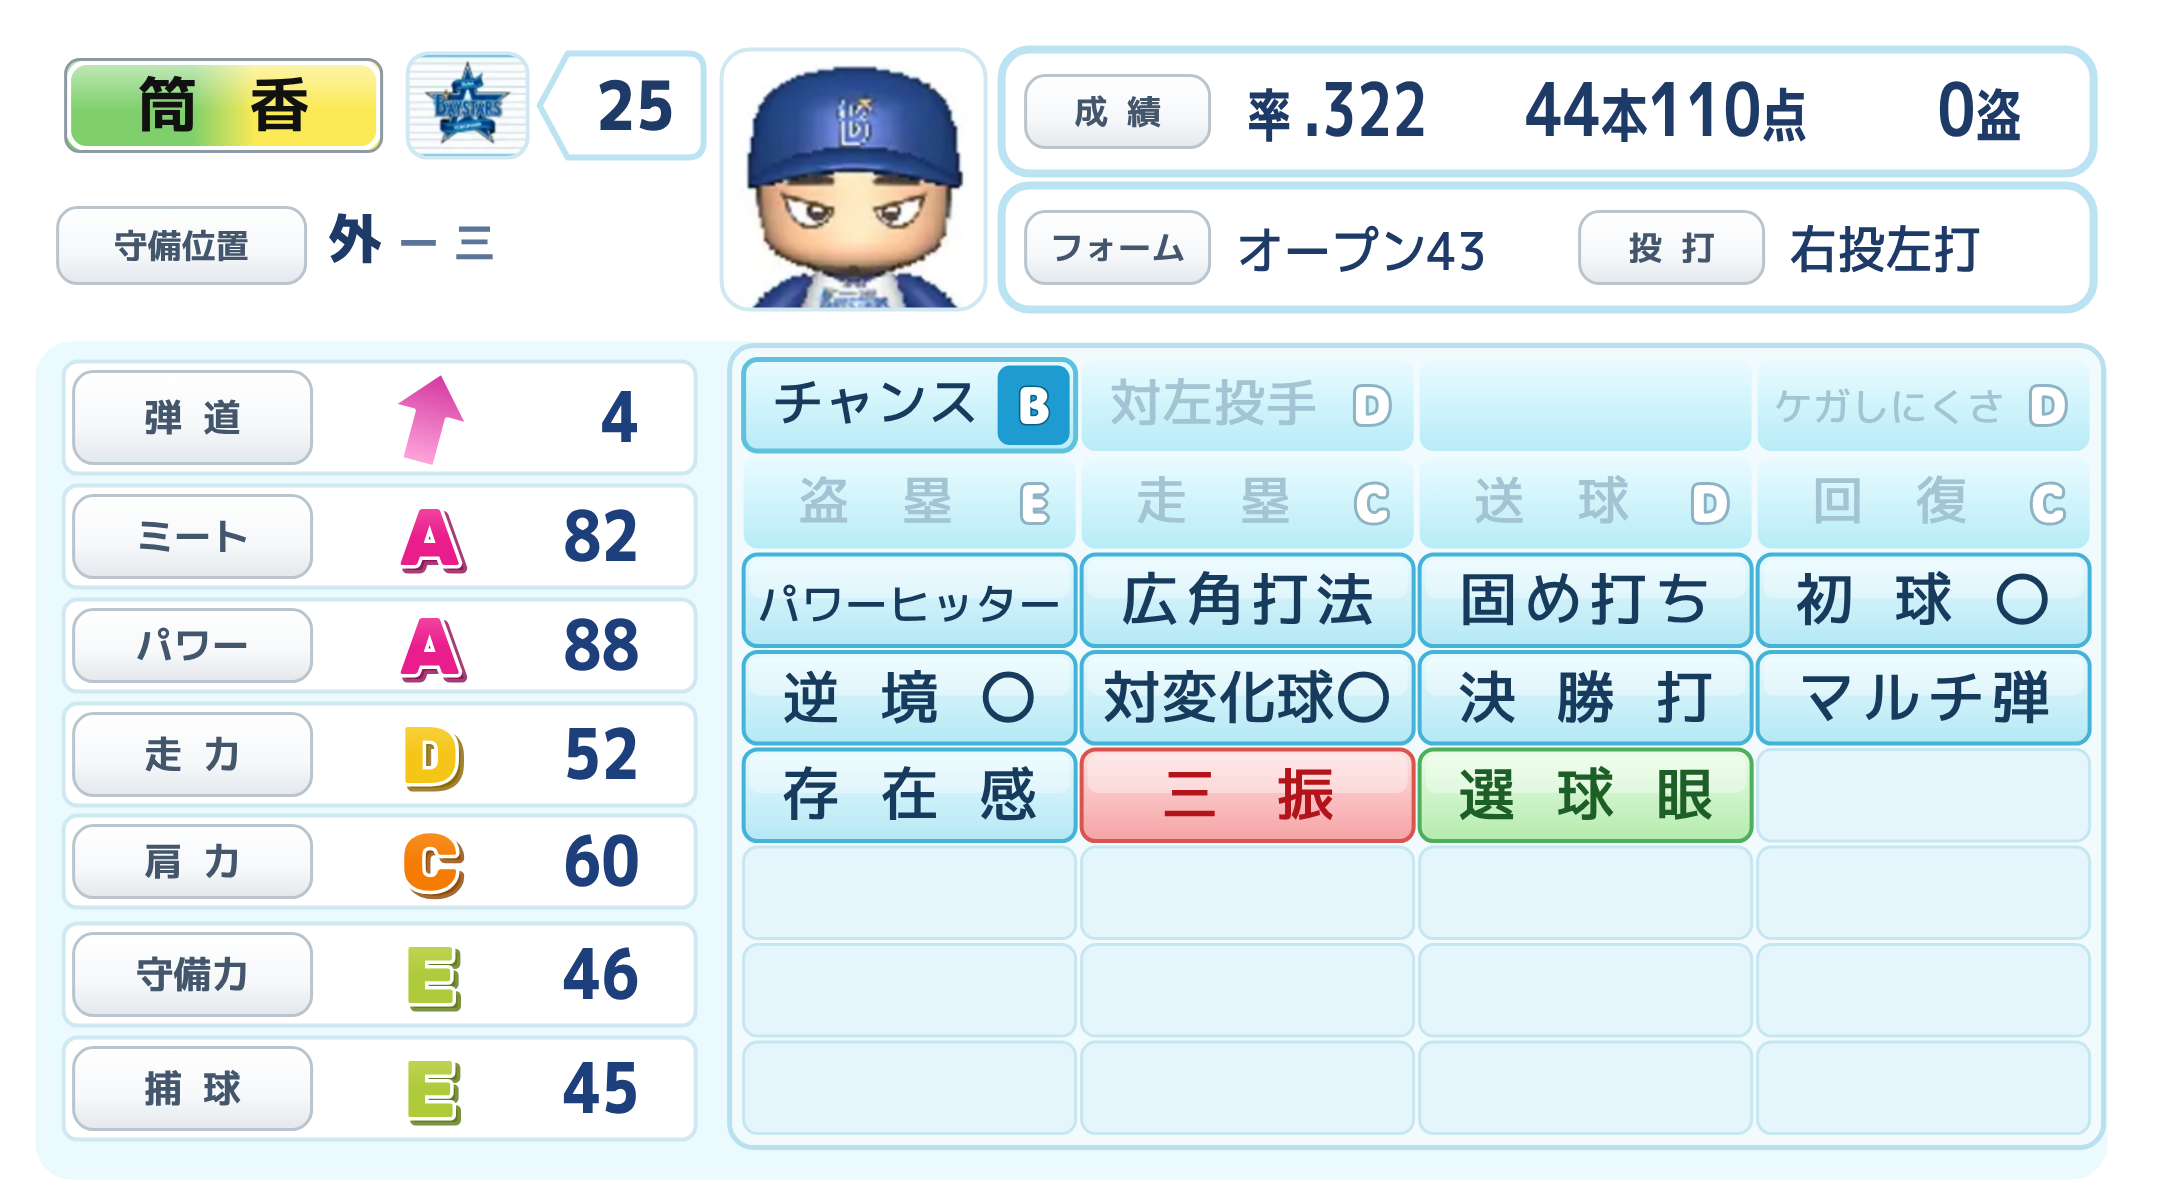
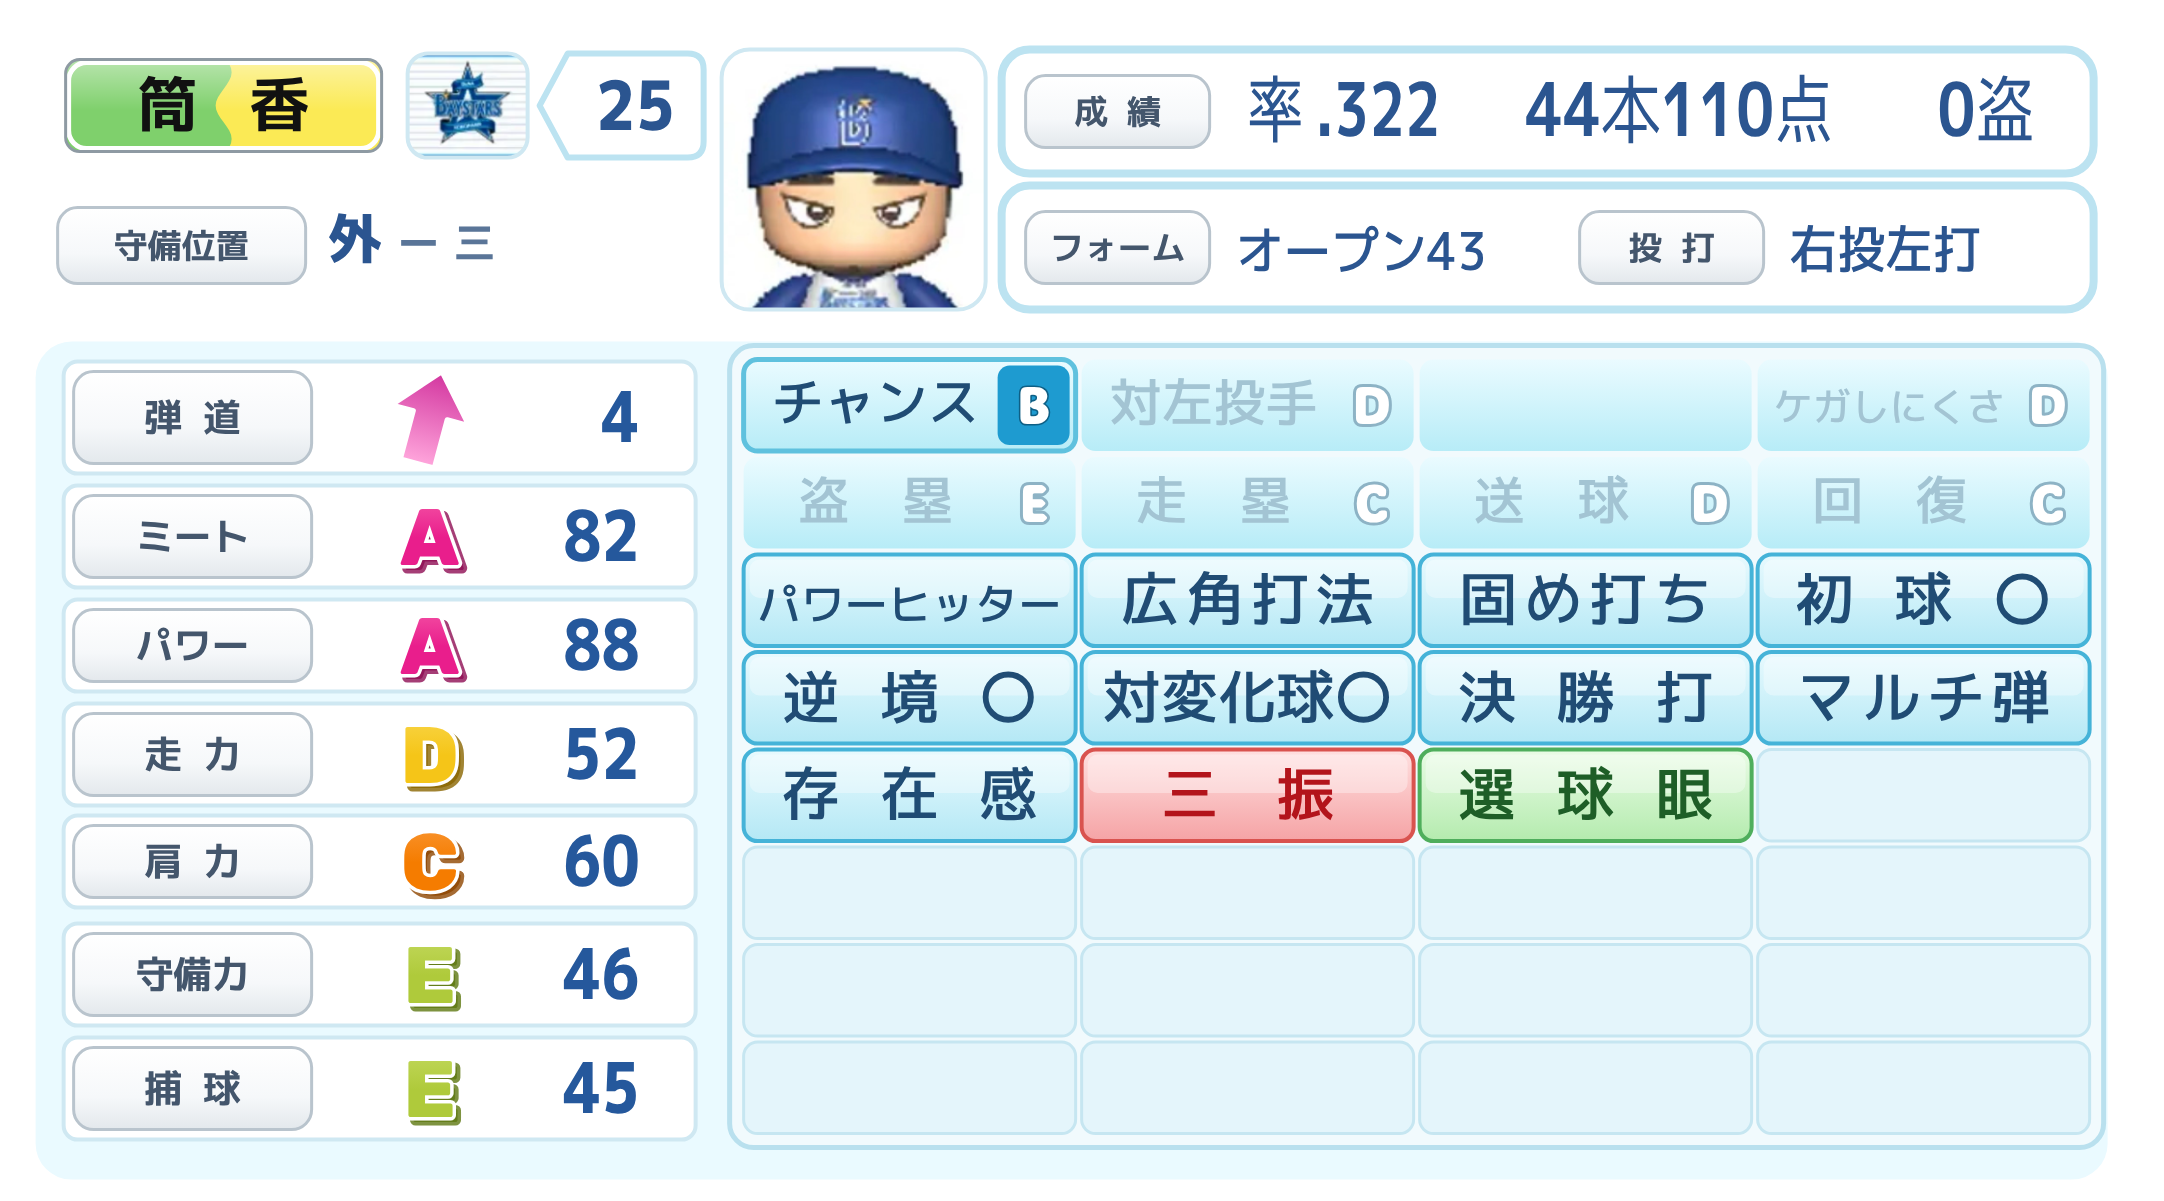
能力画像ジェネレーター（野手）：名前欄の境目を波模様に、成績欄の単位を細く、紺を明るく
- 選手名プレート：色の境目をグラデーションから縦の波模様に
- 成績欄：単位（率・本・点・盗）を数字と同じ高さにし、字だけ細く（M PLUS 1p 400）
- 値・能力値の数字・特殊能力の文字の紺を一段明るく
- 使用例の画像を作り直す

Claude-Session: https://claude.ai/code/session_01SKh1jhAp32CEmbZCaaEmgk

diff --git a/nouryoku/index.html b/nouryoku/index.html
@@ -19,7 +19,7 @@
 <!-- カード内のランク文字・数字に使うフォント（元デザインの ADLaM Display / Source Sans Pro を使用） -->
 <link rel="preconnect" href="https://fonts.googleapis.com">
 <link rel="preconnect" href="https://fonts.gstatic.com" crossorigin>
-<link href="https://fonts.googleapis.com/css2?family=ADLaM+Display&family=Source+Sans+3:wght@700;900&family=M+PLUS+Rounded+1c:wght@700;800;900&family=M+PLUS+1p:wght@500;700;800&family=Rubik:wght@800&display=swap" rel="stylesheet">
+<link href="https://fonts.googleapis.com/css2?family=ADLaM+Display&family=Source+Sans+3:wght@700;900&family=M+PLUS+Rounded+1c:wght@700;800;900&family=M+PLUS+1p:wght@400;500;700;800&family=Rubik:wght@800&display=swap" rel="stylesheet">
 
 <meta name="keywords" content="パワプロ,パワプロ風,能力画像,能力メーカー,能力作成ツール,画像作成,ジェネレーター,自己紹介,選手カード,特殊能力,野手,画像生成,無料">
 
@@ -337,7 +337,7 @@ footer.disclaimer{ margin-top:30px; font-size:0.82rem; color:var(--ink-mute); bo
 </p>
 
 <p>
-<img src="/nouryoku/example-tsutsugo.png?v=8" alt="パワプロ風 能力画像ジェネレーター（野手）で作成した能力画像の例" width="2164" height="1201" loading="lazy" style="max-width:100%; height:auto; border:1px solid #c2cad6; border-radius:12px;">
+<img src="/nouryoku/example-tsutsugo.png?v=9" alt="パワプロ風 能力画像ジェネレーター（野手）で作成した能力画像の例" width="2164" height="1201" loading="lazy" style="max-width:100%; height:auto; border:1px solid #c2cad6; border-radius:12px;">
 </p>
 
 <h2>よくある質問</h2>
@@ -723,14 +723,14 @@ function rankLetter(cx, baseline, rank, size) {
            '<text x="' + cx + '" y="' + baseline + '" ' + font + ' fill="url(#' + gid + ')" stroke="#FFFFFF" stroke-width="3.5" stroke-linejoin="round" paint-order="stroke fill">' + rank + '</text>';
 }
 
-/* ---- 数字は大きく、単位（率・本・点・盗）は少し小さく ----
-   pre（「率」）のあとだけ少し空け、あとは続けて書く（「44本110点」）。 */
-function unitTspans(pre, str, big) {
-    var small = Math.round(big * 0.78);
-    var out = pre ? '<tspan font-size="' + small + '">' + esc(pre) + '</tspan>' : "";
+/* ---- 成績欄の単位（率・本・点・盗） ----
+   実機は数字と同じ高さで、字だけ細い。pre（「率」）のあとだけ少し空け、
+   あとは続けて書く（「44本110点」）。 */
+function unitTspans(pre, str) {
+    var out = pre ? '<tspan font-weight="400">' + esc(pre) + '</tspan>' : "";
     String(str).split(/([0-9０-９.．\-]+)/).filter(function (part) { return part !== ""; }).forEach(function (part, i) {
         var isNum = /^[0-9０-９.．\-]+$/.test(part);
-        out += '<tspan' + (pre && i === 0 ? ' dx="8"' : '') + ' font-size="' + (isNum ? big : small) + '">' + esc(part) + '</tspan>';
+        out += '<tspan' + (pre && i === 0 ? ' dx="8"' : '') + ' font-weight="' + (isNum ? 700 : 400) + '">' + esc(part) + '</tspan>';
     });
     return out;
 }
@@ -874,7 +874,7 @@ function buildCatBadges() {
    赤特は純粋な赤色の単色。赤青特（☆がプラスの赤特）だけ左赤・右青のツートンにする。 */
 var CAT_STYLE = {
     kintoku: { bg: ["#FFF3D0", "#F5DFA8"], border: "#E0B03C", text: "#7A4520" },
-    aoto:    { bg: ["#E8FAFE", "#B4E8F5"], border: "#45B3D8", text: "#173B5C" },
+    aoto:    { bg: ["#E8FAFE", "#B4E8F5"], border: "#45B3D8", text: "#204C74" },
     midori:  { bg: ["#EAFCE6", "#B4EBAE"], border: "#4FAE5C", text: "#1E5E27" },
     aka:     { bg: ["#FFE0E0", "#F5A3A5"], border: "#D9534F", text: "#B3141B" }
 };
@@ -891,19 +891,28 @@ var TRAJ_ARROW = {
     4: { angle: -75, color: "#D2349E", light: "#FFA6DC" }
 };
 /* 選手名プレートの背景。色を1つなら単色、複数なら左から順に並べ、
-   実機と同じく色の境目をなめらかに混ぜる。上半分には白いつやを重ねる */
+   実機と同じく色の境目を縦の波模様にする。上半分には白いつやを重ねる */
 function nameplateStripes(x, y, w, h, colors) {
     if (!colors.length) colors = [NAME_PLATE_COLORS.yellow];
     var n = colors.length;
-    var stops = "";
-    colors.forEach(function (c, i) {
-        var from = i / n, to = (i + 1) / n, blend = 0.1;
-        stops += '<stop offset="' + (i ? from + blend : 0) + '" stop-color="' + c + '"/>' +
-                 '<stop offset="' + (i < n - 1 ? to - blend : 1) + '" stop-color="' + c + '"/>';
-    });
-    var html = '<defs><linearGradient id="gName" x1="0" y1="0" x2="1" y2="0">' + stops + '</linearGradient>' +
-        '<linearGradient id="gNameGloss" x1="0" y1="0" x2="0" y2="1"><stop offset="0" stop-color="#FFFFFF" stop-opacity="0.55"/><stop offset="0.55" stop-color="#FFFFFF" stop-opacity="0"/></linearGradient></defs>' +
-        '<rect x="' + x + '" y="' + y + '" width="' + w + '" height="' + h + '" rx="7" fill="url(#gName)"/>' +
+    var amp = 4, waves = 1.5;
+    var html = '<defs><clipPath id="clipName"><rect x="' + x + '" y="' + y + '" width="' + w + '" height="' + h + '" rx="7"/></clipPath>' +
+        '<linearGradient id="gNameGloss" x1="0" y1="0" x2="0" y2="1"><stop offset="0" stop-color="#FFFFFF" stop-opacity="0.45"/><stop offset="0.55" stop-color="#FFFFFF" stop-opacity="0"/></linearGradient></defs>' +
+        '<g clip-path="url(#clipName)">' +
+        '<rect x="' + x + '" y="' + y + '" width="' + w + '" height="' + h + '" fill="' + colors[0] + '"/>';
+    /* 2色目からは、波打つ境目から右端までを塗る */
+    for (var c = 1; c < n; c++) {
+        var bx = x + w * c / n;
+        var d = "M" + (x + w + 2) + "," + (y - 2);
+        for (var k = 0; k <= 24; k++) {
+            var yy = y - 2 + (h + 4) * k / 24;
+            var xx = bx + amp * Math.sin(2 * Math.PI * waves * k / 24);
+            d += " L" + xx.toFixed(1) + "," + yy.toFixed(1);
+        }
+        d += " L" + (x + w + 2) + "," + (y + h + 2) + " Z";
+        html += '<path d="' + d + '" fill="' + colors[c] + '"/>';
+    }
+    html += '</g>' +
         '<rect x="' + x + '" y="' + y + '" width="' + w + '" height="' + h + '" rx="7" fill="url(#gNameGloss)"/>';
     /* 実機の、白い内側の縁と細い灰色の外側の縁 */
     html +=
@@ -1001,7 +1010,7 @@ function renderCard() {
                はっきり分かるようにする */
             var isHigh = b.rank === "A" || b.rank === "B";
             var isPaleText = b.rank === "C" || b.rank === "D" || b.rank === "E";
-            var textColor = tier === "bad" ? "#7A2020" : (isPaleText ? "#A3C4D3" : "#173B5C");
+            var textColor = tier === "bad" ? "#7A2020" : (isPaleText ? "#A3C4D3" : "#204C74");
             /* 実機：B以上は青い四角に白い字、C〜Eは四角無しで白抜きの字（薄い灰青の縁）だけ、F・Gは赤 */
             var tagFill = tier === "bad" ? BADGE_RANK_TAG[b.rank] : "#1E9BD0";
             var tagStroke = tier === "bad" ? "#7A1F1A" : (isPaleText ? "#8DB3C5" : "#0E5F85");
@@ -1058,7 +1067,7 @@ function renderCard() {
         return '<rect x="' + L.statColX + '" y="' + y + '" width="' + statCardW + '" height="' + h + '" rx="7" fill="#FFFFFF" stroke="#CFE8F2" stroke-width="2"/>' +
                labelPill(L.statColX + 5, y + 5, L.statLabelW - 6, h - 10, labelVal("statlabel-" + s.id, s.label), 19) +
                rankText +
-               '<text data-squeeze="0.84" data-max="' + (L.statNumW - 24) + '" x="' + (L.statNumX + L.statNumW - 28) + '" y="' + (y + h / 2 + 12) + '" text-anchor="end" font-size="35" font-weight="800" fill="#1D3F7C" font-family="&quot;M PLUS 1p&quot;,&quot;Hiragino Kaku Gothic ProN&quot;,sans-serif">' + esc(v) + '</text>';
+               '<text data-squeeze="0.84" data-max="' + (L.statNumW - 24) + '" x="' + (L.statNumX + L.statNumW - 28) + '" y="' + (y + h / 2 + 12) + '" text-anchor="end" font-size="35" font-weight="800" fill="#25589C" font-family="&quot;M PLUS 1p&quot;,&quot;Hiragino Kaku Gothic ProN&quot;,sans-serif">' + esc(v) + '</text>';
     }).join("");
 
     var gridBottom = L.gridRowY0 + rows * L.gridRowH;
@@ -1068,7 +1077,7 @@ function renderCard() {
 
     var bio1 = L.bio1Vals.map(function (b) {
         var val = b.keys.map(function (k) { return document.getElementById("p-" + k).value.trim(); }).join("");
-        return '<text data-squeeze="0.8" data-max="' + b.w + '" x="' + b.x + '" y="' + (b.y + 32) + '"' + (b.anchor ? ' text-anchor="' + b.anchor + '"' : '') + ' font-size="37" font-weight="700" fill="#1E3A66" font-family="&quot;M PLUS 1p&quot;,&quot;Hiragino Kaku Gothic ProN&quot;,sans-serif">' + unitTspans(b.pre, val, 37) + '</text>';
+        return '<text data-squeeze="0.8" data-max="' + b.w + '" x="' + b.x + '" y="' + (b.y + 32) + '"' + (b.anchor ? ' text-anchor="' + b.anchor + '"' : '') + ' font-size="37" font-weight="700" fill="#2B5590" font-family="&quot;M PLUS 1p&quot;,&quot;Hiragino Kaku Gothic ProN&quot;,sans-serif">' + unitTspans(b.pre, val) + '</text>';
     }).join("");
 
     var svg = '' +
@@ -1093,7 +1102,7 @@ function renderCard() {
 
         /* 背番号 */
         numTab(L.numBox.x, L.numBox.y, L.numBox.w, L.numBox.h) +
-        (number ? '<text data-squeeze="0.9" data-max="' + (L.numBox.w - 14) + '" x="' + (L.numBox.x + 7 + L.numBox.w / 2) + '" y="' + (L.numBox.y + L.numBox.h / 2 + 12) + '" text-anchor="middle" font-size="34" font-weight="800" fill="#1E3A66" font-family="&quot;M PLUS 1p&quot;,&quot;Hiragino Kaku Gothic ProN&quot;,sans-serif">' + esc(number) + '</text>' : '') +
+        (number ? '<text data-squeeze="0.9" data-max="' + (L.numBox.w - 14) + '" x="' + (L.numBox.x + 7 + L.numBox.w / 2) + '" y="' + (L.numBox.y + L.numBox.h / 2 + 12) + '" text-anchor="middle" font-size="34" font-weight="800" fill="#2B5590" font-family="&quot;M PLUS 1p&quot;,&quot;Hiragino Kaku Gothic ProN&quot;,sans-serif">' + esc(number) + '</text>' : '') +
 
         /* 顔写真枠（アップロードした画像があればそれを表示、無ければプレースホルダー） */
         (playerPhotoImg
@@ -1104,7 +1113,7 @@ function renderCard() {
 
         /* 守備位置 */
         labelPill(L.posLabel.x, L.posLabel.y, L.posLabel.w, L.posLabel.h, labelVal("label-pos", "守備位置"), 17) +
-        '<text data-fit="' + (L.posValue.w - 10) + '" x="' + L.posValue.x + '" y="' + (L.posValue.y + L.posValue.h / 2 + 9) + '" font-size="27" font-weight="800" fill="#1E3A66" font-family="&quot;M PLUS 1p&quot;,&quot;Hiragino Kaku Gothic ProN&quot;,sans-serif">' + esc(pos) +
+        '<text data-fit="' + (L.posValue.w - 10) + '" x="' + L.posValue.x + '" y="' + (L.posValue.y + L.posValue.h / 2 + 9) + '" font-size="27" font-weight="800" fill="#2B5590" font-family="&quot;M PLUS 1p&quot;,&quot;Hiragino Kaku Gothic ProN&quot;,sans-serif">' + esc(pos) +
             (subClean ? '<tspan dx="8" font-size="21" font-weight="700" fill="#5A7598">ー</tspan><tspan dx="7" font-size="21" font-weight="700" fill="#5A7598">' + esc(subClean) + '</tspan>' : '') + '</text>' +
 
         /* 成績・フォーム・投打（2段のパネル） */
@@ -1114,9 +1123,9 @@ function renderCard() {
 
         '<rect x="' + L.bioRow2.x + '" y="' + L.bioRow2.y + '" width="' + L.bioRow2.w + '" height="' + L.bioRow2.h + '" rx="14" fill="#ffffff" stroke="#BCE3F1" stroke-width="4"/>' +
         labelPill(L.bio2Label1.x, L.bio2Label1.y, L.bio2Label1.w, L.bio2Label1.h, labelVal("label-form", "フォーム"), 17) +
-        '<text data-squeeze="0.92" data-max="' + (L.bio2Val1.w - 6) + '" x="' + L.bio2Val1.x + '" y="' + (L.bio2Val1.y + L.bio2Val1.h / 2 + 9) + '" font-size="26" font-weight="500" fill="#1E3A66" font-family="&quot;M PLUS 1p&quot;,&quot;Hiragino Kaku Gothic ProN&quot;,sans-serif">' + esc(form) + '</text>' +
+        '<text data-squeeze="0.92" data-max="' + (L.bio2Val1.w - 6) + '" x="' + L.bio2Val1.x + '" y="' + (L.bio2Val1.y + L.bio2Val1.h / 2 + 9) + '" font-size="26" font-weight="500" fill="#2B5590" font-family="&quot;M PLUS 1p&quot;,&quot;Hiragino Kaku Gothic ProN&quot;,sans-serif">' + esc(form) + '</text>' +
         labelPill(L.bio2Label2.x, L.bio2Label2.y, L.bio2Label2.w, L.bio2Label2.h, labelVal("label-throwbat", "投打"), 17) +
-        '<text data-squeeze="0.92" data-max="' + (L.bio2Val2.w - 6) + '" x="' + L.bio2Val2.x + '" y="' + (L.bio2Val2.y + L.bio2Val2.h / 2 + 9) + '" font-size="26" font-weight="500" fill="#1E3A66" font-family="&quot;M PLUS 1p&quot;,&quot;Hiragino Kaku Gothic ProN&quot;,sans-serif">' + esc(throwbat) + '</text>' +
+        '<text data-squeeze="0.92" data-max="' + (L.bio2Val2.w - 6) + '" x="' + L.bio2Val2.x + '" y="' + (L.bio2Val2.y + L.bio2Val2.h / 2 + 9) + '" font-size="26" font-weight="500" fill="#2B5590" font-family="&quot;M PLUS 1p&quot;,&quot;Hiragino Kaku Gothic ProN&quot;,sans-serif">' + esc(throwbat) + '</text>' +
 
         /* 能力値テーブル */
         statHTML +
@@ -1258,7 +1267,7 @@ bindImageUpload("p-flagimg", function (v) { teamFlagImg = v; });
    代替フォントで描かれてしまうことがある。これを避けるため、書き出す
    直前にWebフォントをbase64で埋め込んだ<style>をSVGへ差し込む。
    フォントデータは初回のみ取得してキャッシュする。 */
-var FONT_CSS_URL = "https://fonts.googleapis.com/css2?family=ADLaM+Display&family=Source+Sans+3:wght@700;900&family=M+PLUS+Rounded+1c:wght@700;800;900&family=M+PLUS+1p:wght@500;700;800&family=Rubik:wght@800&display=swap";
+var FONT_CSS_URL = "https://fonts.googleapis.com/css2?family=ADLaM+Display&family=Source+Sans+3:wght@700;900&family=M+PLUS+Rounded+1c:wght@700;800;900&family=M+PLUS+1p:wght@400;500;700;800&family=Rubik:wght@800&display=swap";
 var embeddedFontCssPromise = null;
 function getEmbeddedFontCss() {
     if (embeddedFontCssPromise) return embeddedFontCssPromise;
